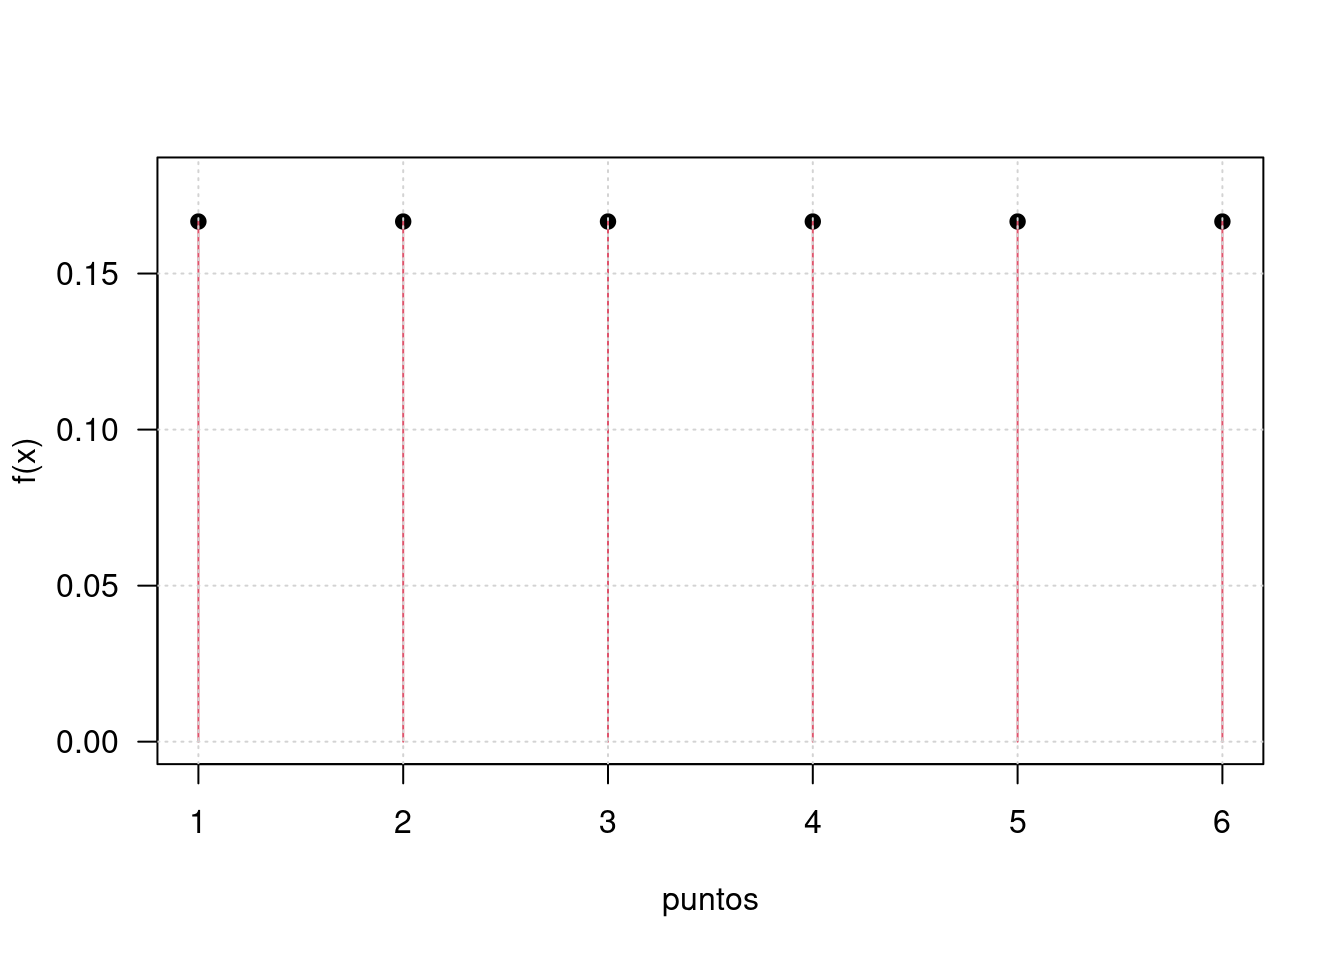
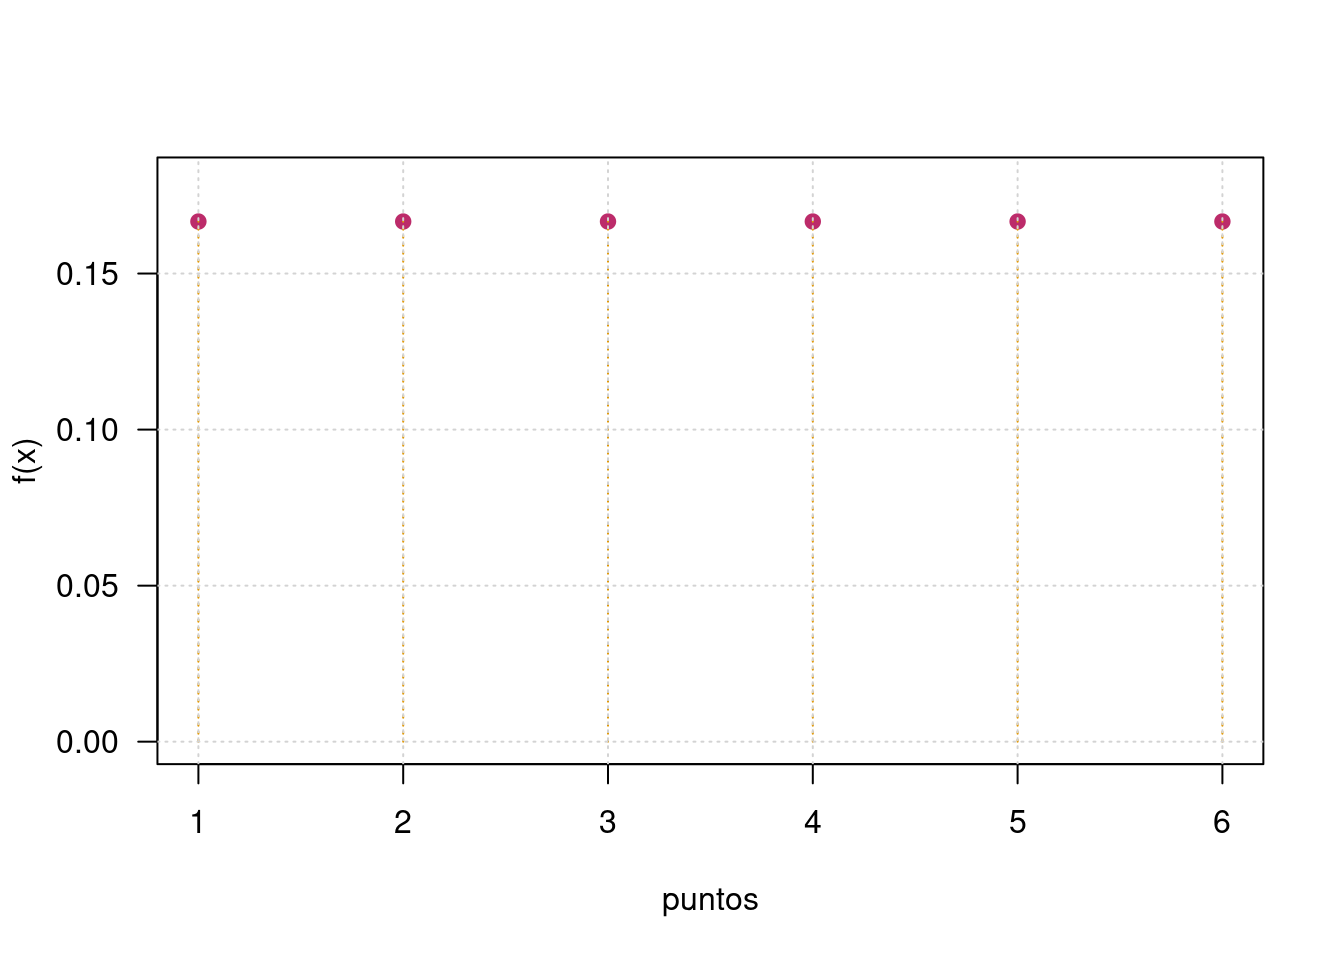
ajustes gruia 3.1

diff --git a/Guia301.html b/Guia301.html
@@ -643,13 +643,13 @@ div.tocify {
 <p>El concepto de variable aleatoria constituye uno de los conceptos principales de la probabilidad y estadística. A este concepto se pueden asociar dos paradigmas de evolución histórica segun J.A. Alberth &amp; B. Ruiz (2013) , El primero basada en el resultado de fenómenos aleatorios y por otro lado el proceso que relaciona los conjuntos de espacio muestral y sus respectivas probabilidades, para definir el concepto de variable aleatória como función de números reales y el espacio para el sustento matemático.</p>
 <p>Ahora, se puede relacionar el concepto de variable aleatoria a diferentes contextos donde se requiere dar respuesta a preguntas relacionadas con la ocurrencia o no de fenómenos aleatorios que eventualmente se presentarán en el futuro, como por ejemplo:</p>
 <ul>
-<li><p>¿Cuánto tiempo se tarda un estudiante en ir a la universidad?</p></li>
+<li><p>¿Cuánto tiempo se tarda un estudiante en ir de su casa a la universidad?</p></li>
 <li><p>¿Cuál será el resultado en mi próximo examen de estadística?</p></li>
 <li><p>El dueño de la cafetería se puede preguntar ¿Cuantas botellas de agua se venderán esta semana?</p></li>
 <li><p>¿Cuánto tiempo tardaría la entrega de un paquete una empresa de mensajería?</p></li>
 <li><p>¿Cuánto tiempo dura la bombilla de un vehículo?</p></li>
 <li><p>¿Qué diámetro tendrá la perforación de una máquina en una lámina de acero que hace parte de una puerta de un vehículo?</p></li>
-<li><p>¿ cuanto tiempo tardara la creación de la vacuna para el Covid-19?</p></li>
+<li><p>¿Cuantos mensajes recibiré hoy por WhatsApp?</p></li>
 </ul>
 <p>En todos los casos se trata de preguntas que tienen diferentes respuestas, o que no tienen un único valor como respuesta. En este documento se estudiará el concepto de variable aleatoria y mediante la definición de una función matemática que nos permita caracterizar su comportamiento, realizaremos diferentes cálculos de probabilidades de interés. Para ello será necesario retomar conocimientos de cálculo integral que serán expuestos en su momento mediante funciones de fácil manejo.</p>
 <p>En esta unidad se tratará el caso univariado discreto, luego el caso continuo,con sus principales características, conceptos relacionados con los vistos en el modulo anterior.</p>
@@ -772,11 +772,11 @@ div.tocify {
 <p>Tambien podemos representar esta función de manera gráfica</p>
 <pre class="r"><code>x=1:6
 fx=rep(1,6)/6
-plot(x,fx,pch=19, ylim=c(0,0.18), las=1, xlab=&quot;puntos&quot;, ylab=&quot;f(x)&quot;)  
-lines(x, fx, type=&quot;h&quot;, col=2)
+plot(x,fx,pch=19, ylim=c(0,0.18), las=1, xlab=&quot;puntos&quot;, ylab=&quot;f(x)&quot;, col=&quot;#BC2B6A&quot;)  
+lines(x, fx, type=&quot;h&quot;, col=&quot;#E09600&quot;, lty=3)
 grid()</code></pre>
 <p><img src="Guia301_files/figure-html/unnamed-chunk-1-1.png" width="672" /> <br/></p>
-<p>Para la construcción de la función de distribución acumulada se acumulan los valores correspondienes a las probabilidades puntuales de manera creciente</p>
+<p>Para la construcción de la función de distribución acumulada se acumulan los valores correspondientes a las probabilidades puntuales de manera creciente</p>
 <pre class="r"><code>x=1:6
 fx=rep(1,6)/6
 Fx=cumsum(fx)
